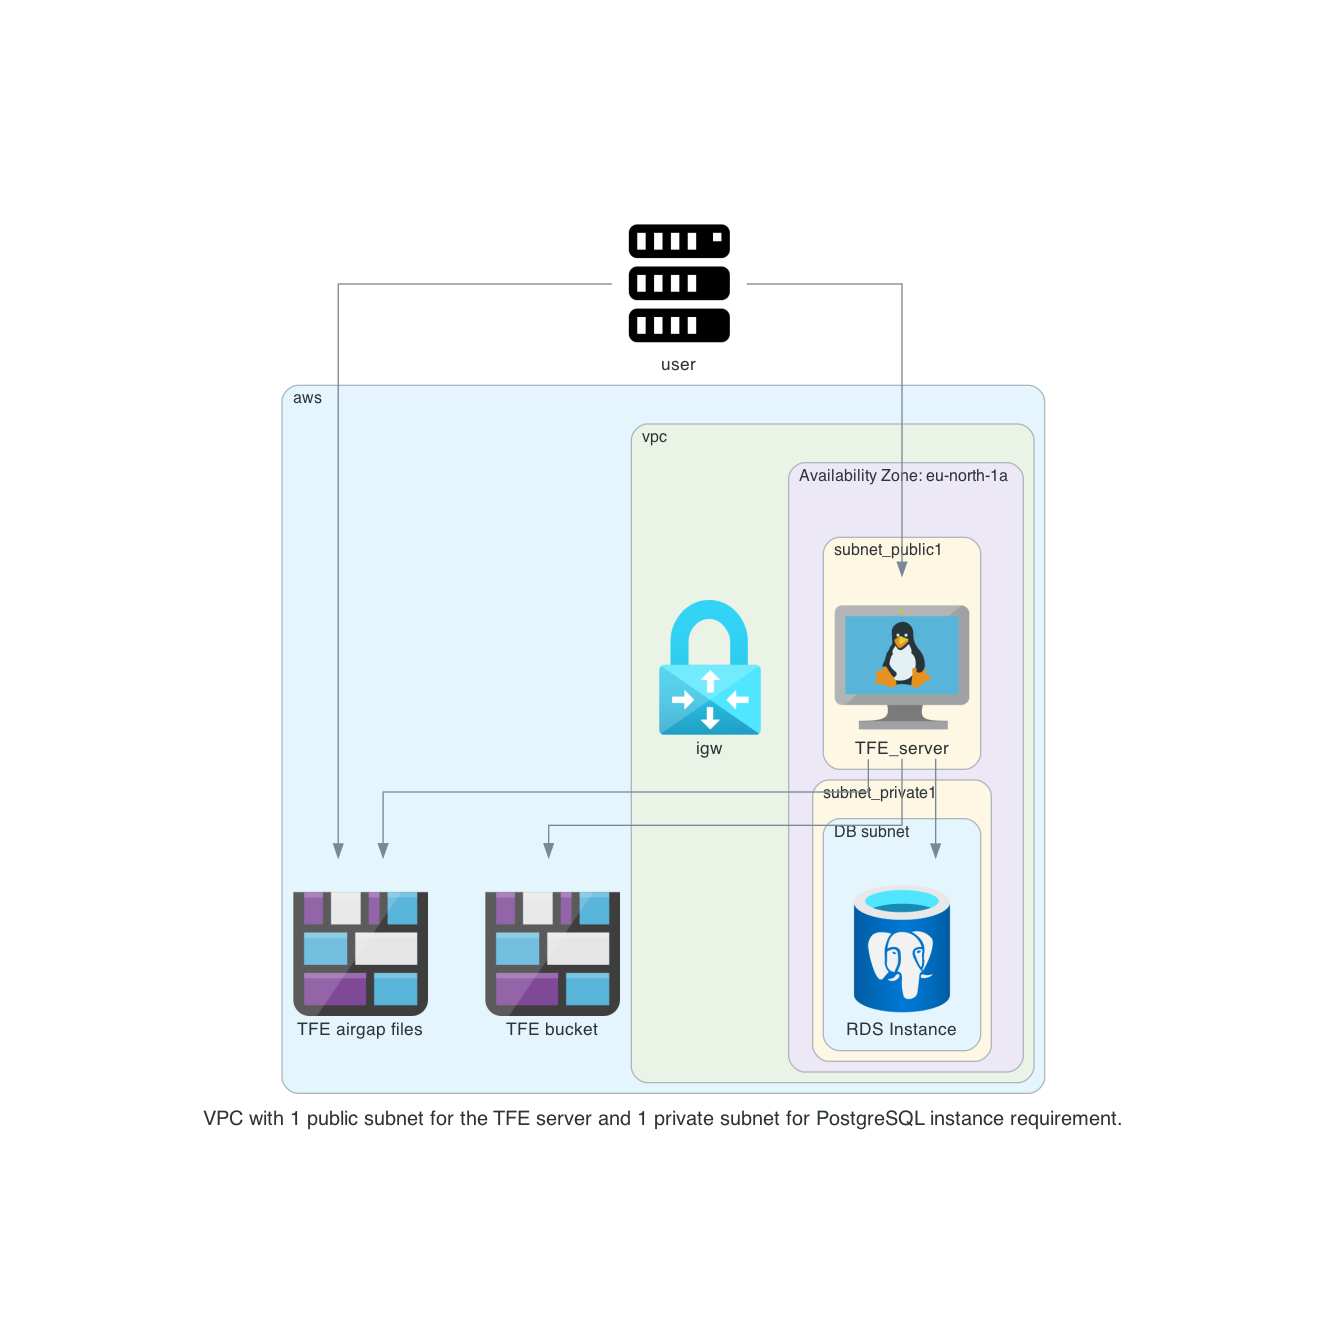
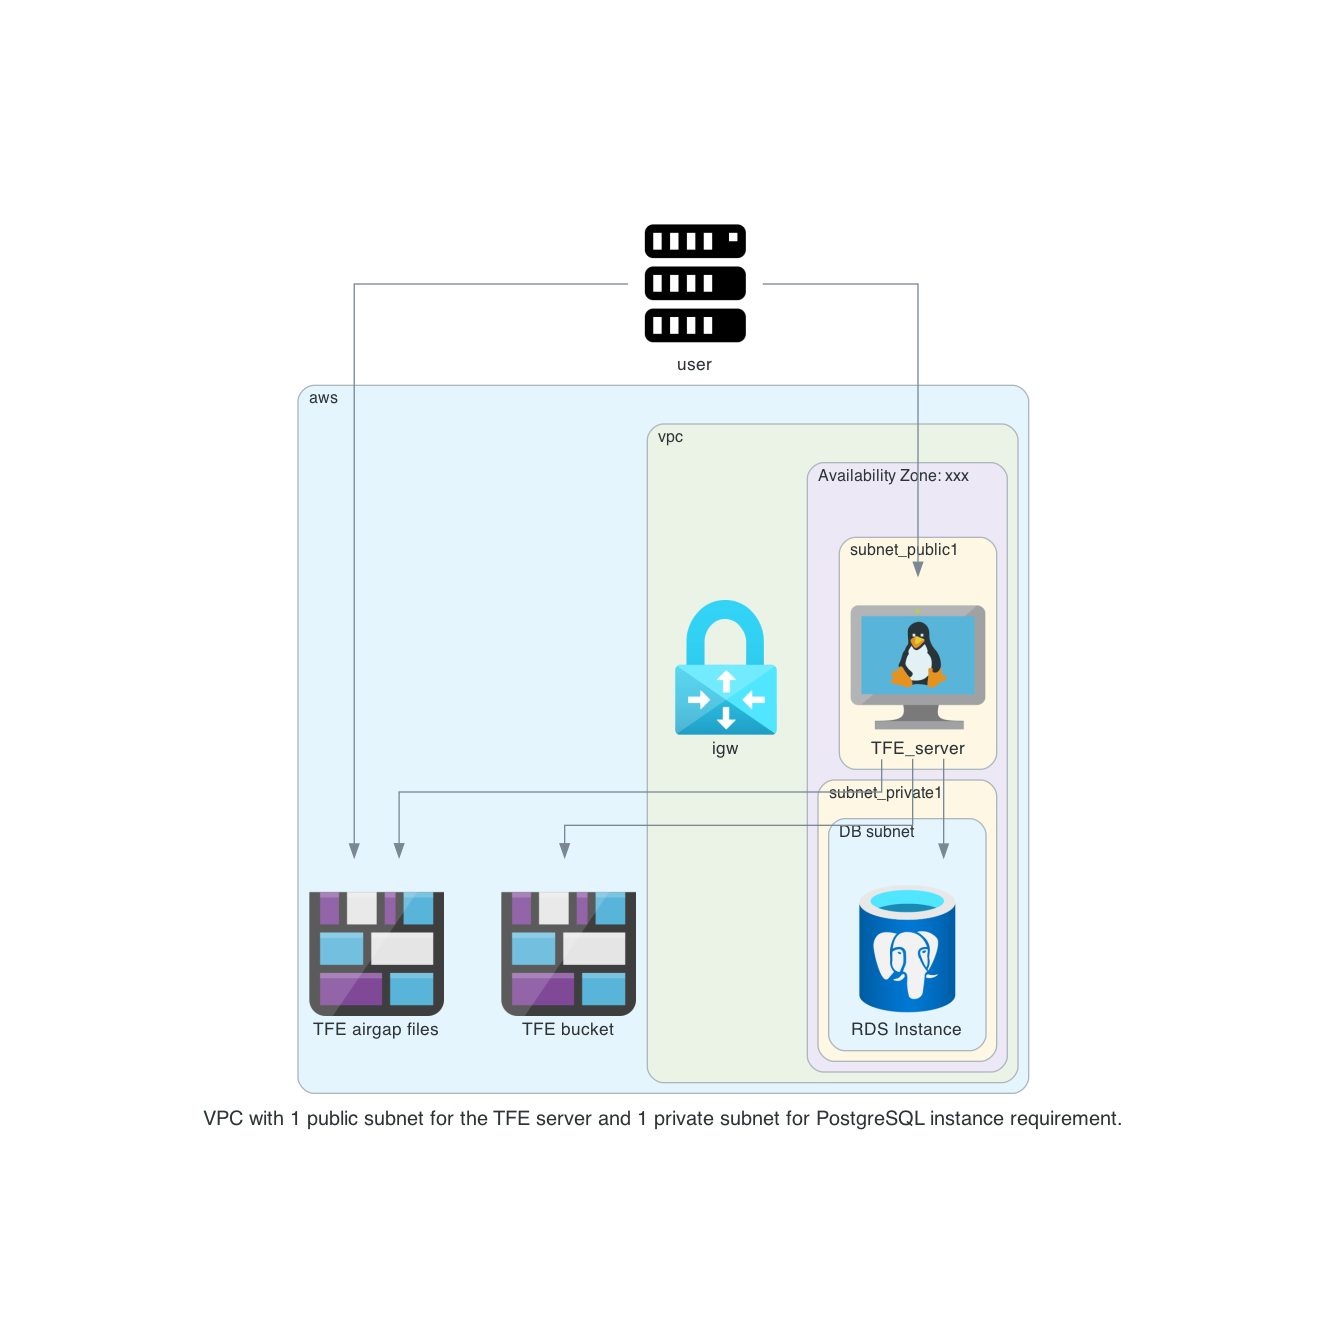
small issue

diff --git a/diagram/tfe_azure_sso.py b/diagram/tfe_azure_sso.py
@@ -33,7 +33,7 @@ with Diagram(
         with Cluster("vpc"):
             igw_gateway = VirtualNetworkGateways("igw")
     
-            with Cluster("Availability Zone: eu-north-1a \n\n  "):
+            with Cluster("Availability Zone: xxx \n\n  "):
                 # Subcluster 
                 with Cluster("subnet_public1"):
                      ec2_tfe_server = VMLinux("TFE_server")
